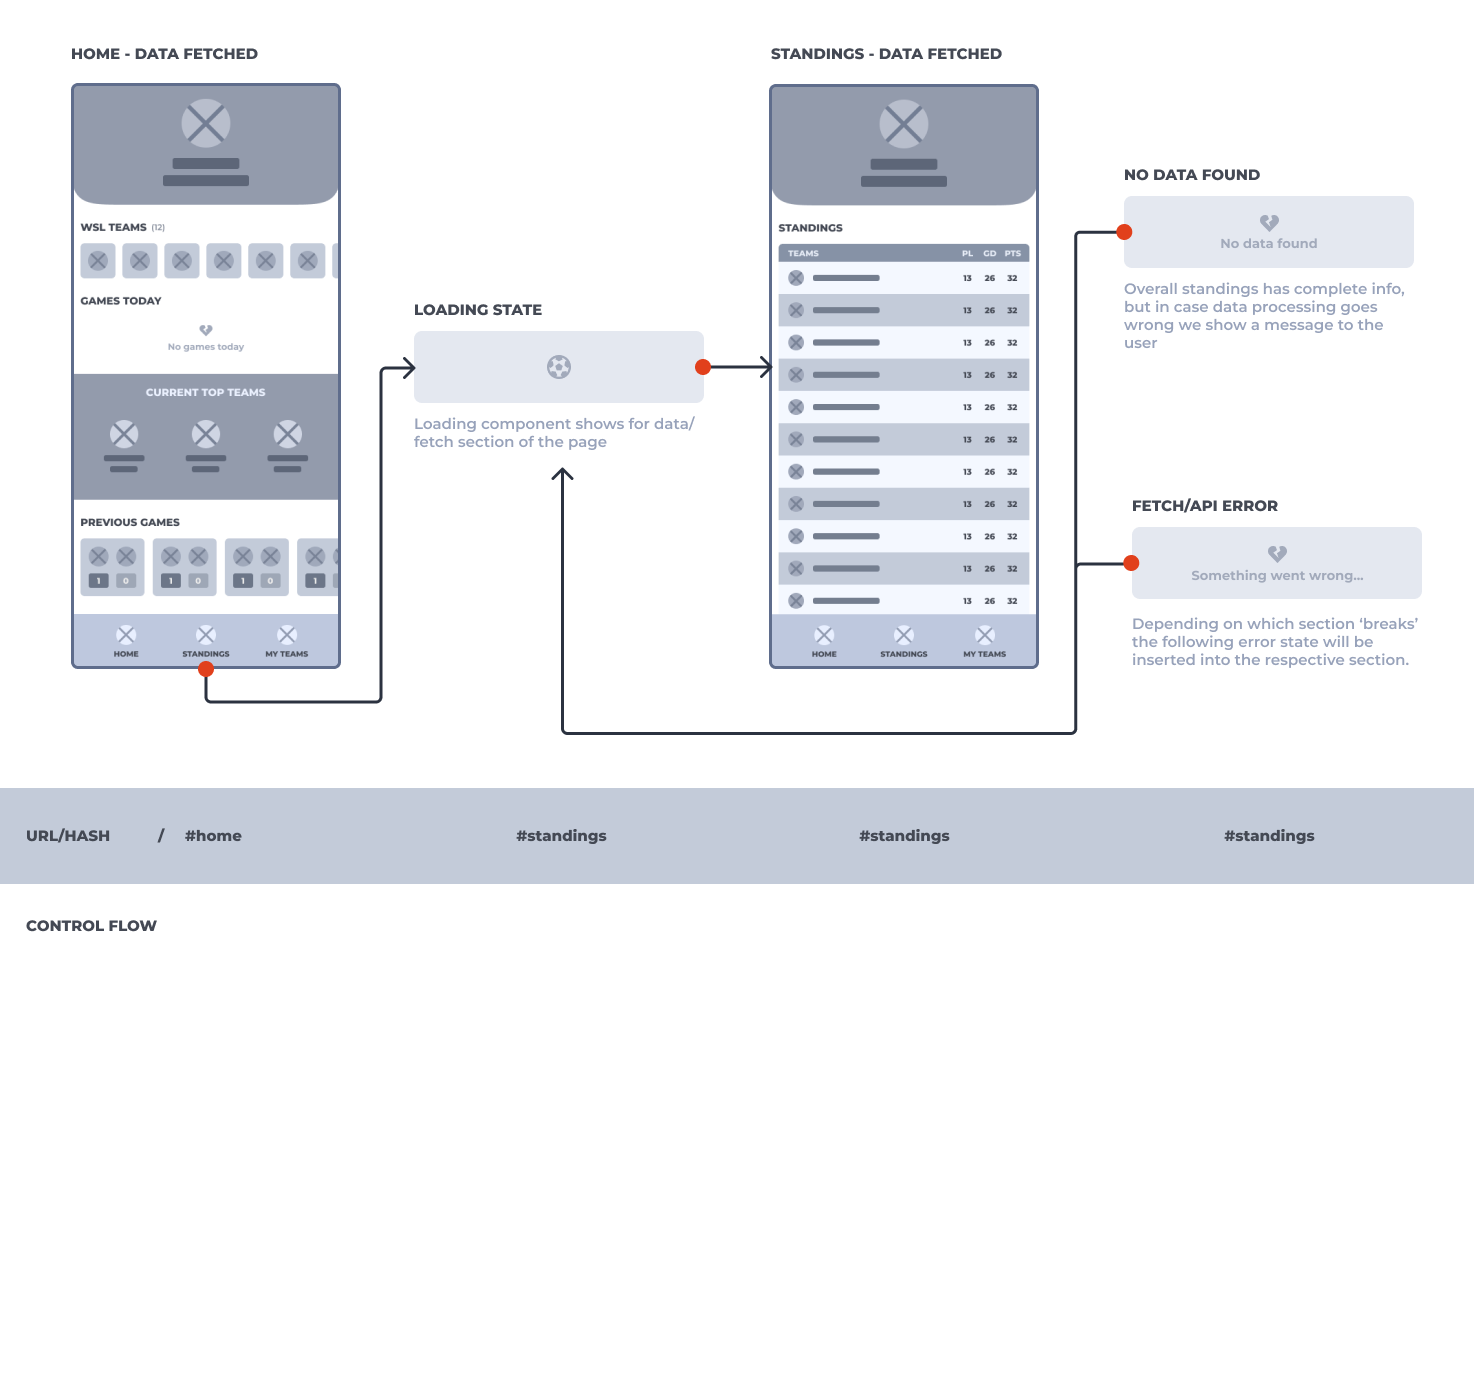
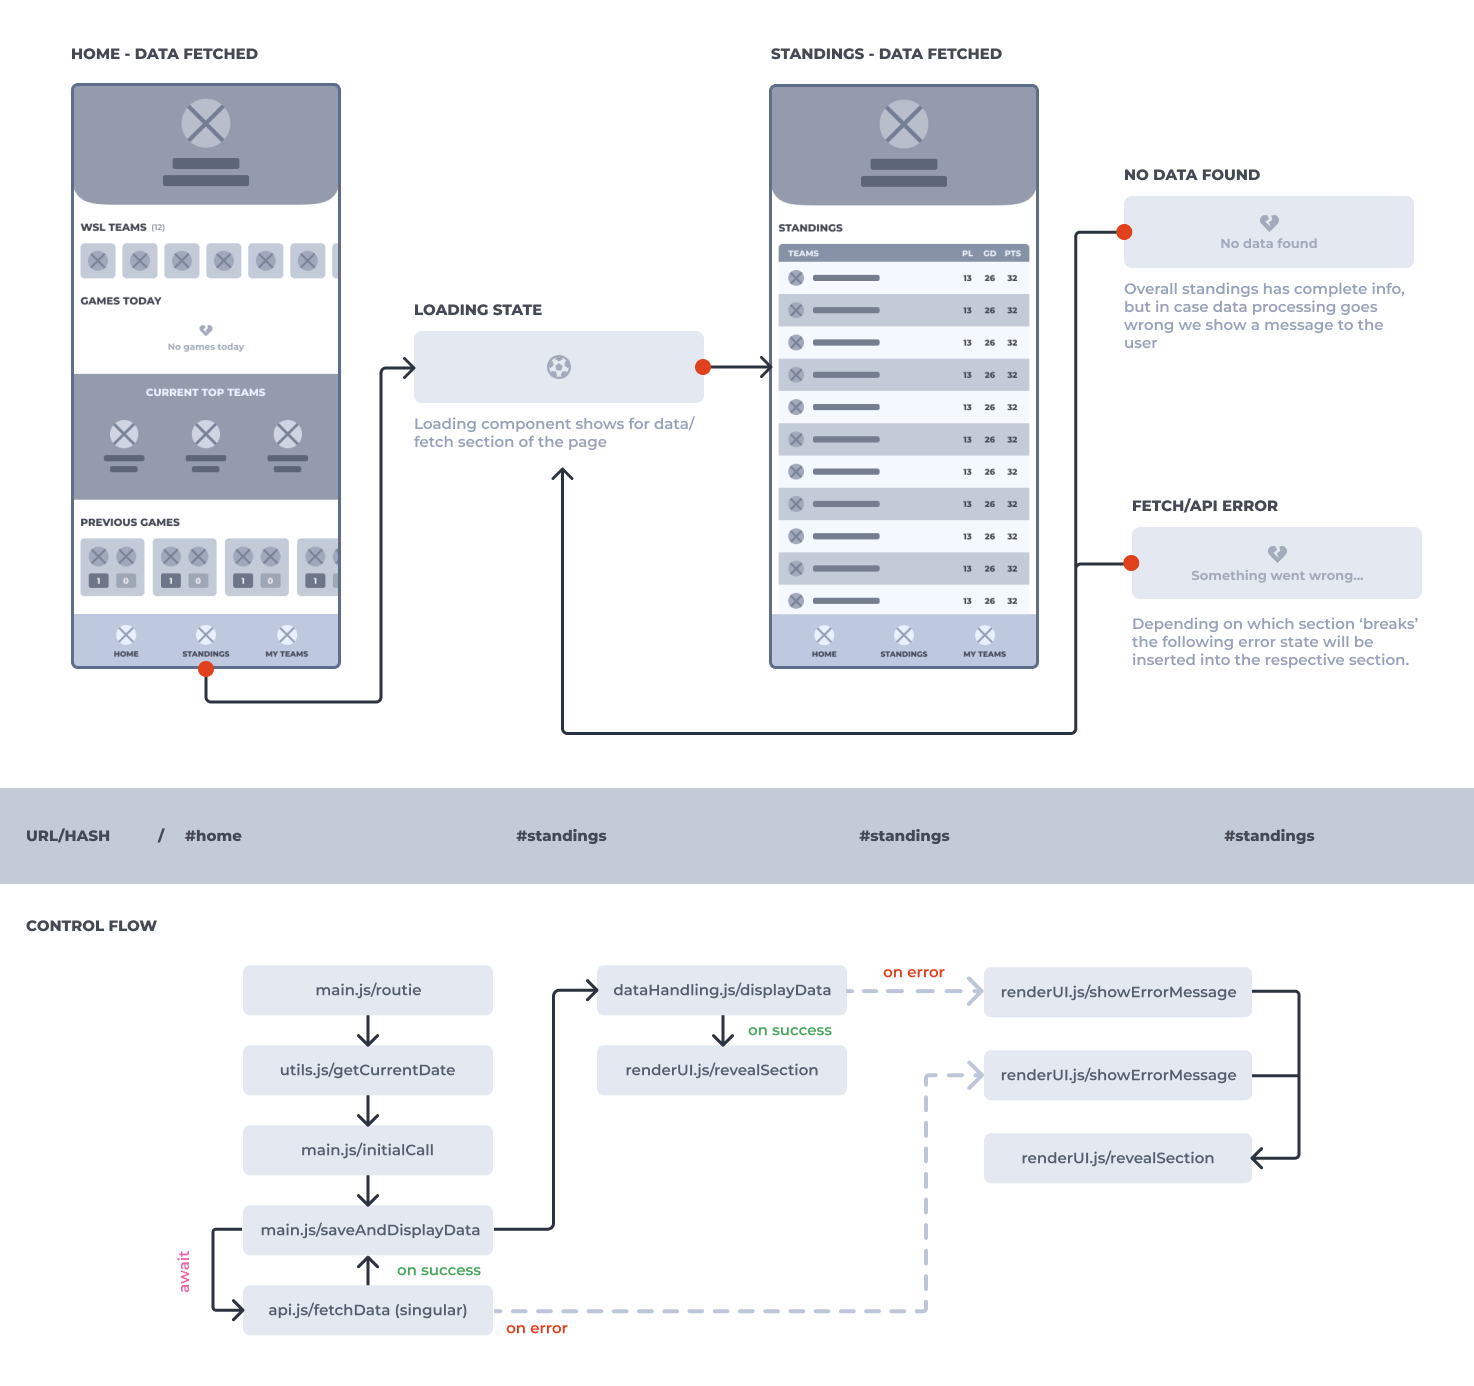
docs and style update

Changed region(s): [[0.1248, 0.6825, 0.3745, 0.9618], [0.6554, 0.6825, 0.905, 0.8687], [0.3745, 0.6825, 0.5929, 0.8066]]

diff --git a/app/styles/style.css b/app/styles/style.css
@@ -254,7 +254,9 @@ nav {
     box-shadow: 0 -2px rgba(0 0 0 / 5%);
 
     display: grid;
-    background-color: #FFF
+    background-color: #FFF;
+
+    z-index:400;
 }
 
     .menu {

diff --git a/app/docs/productdoc.md b/app/docs/productdoc.md
@@ -1,8 +1,8 @@
-# WSLH - Product documentation
+# :notebook_with_decorative_cover: WSLH - Product documentation
 
 For the course "Web App From Scratch" everyone was tasked to design and build a Single Page web App (SPA) based on a user story. The teachers gave us about three weeks for this assignment. The catch is that we had to retrieve data from an external API, manipulate and display said data, but only by using vanilla HTML, CSS and Javascript.
 
-## User Story
+## :page_facing_up: User Story
 
 As you might already be aware, I developed a football application to keep you up-to-date with your favorite teams in the FA Women's Super League. I have enjoyed football for as long as I can remember, I was practically raised in a Galatasaray household where we watched games with the family every weekend. To no one's surprised, I ended up playing football myself as well, however I never actually joined a team. I played on the streets with my friends and occasionaly went to a local club to use their pitches.
 
@@ -14,7 +14,7 @@ This year I wanted to *really* get into women's football. I quickly learned how 
 
 As you can read in the user story I decided to focus on the FA Women's Super League (WSL), which is the female equivalant of the English Premier League. The WSL is one of the more popular women's football leagues out there. Women's football is popular in the United states, however due to timezone differrences my desire to keep up with their leagues is non existent. The WSL and Liga F are currently the only leagues (for me) that are most accessible. I personally find Liga F to not interest me as much as the WSL; FC Barcelona pretty much dominates Liga F, meaning they win all games and are always #1 on the standings. The WSL appears to be more diverse when it comes to teams (performance wise, at least to me), and overall their games get broadcasted, which is why I chose to focus on WSL for now.
 
-## Choosing an API
+## :globe_with_meridians: Choosing an API
 
 Before I picked this user story I browsed the web for free REST APIs with live football data. Not a lot of options for us football and coding enjoyers out there... Most of the APIs were amazing, don't get me wrong, but the issue was that they would either require you to sign up for a payment plan in order to receive a key, or they would only allow a certain amount of API calls per month.  
 
@@ -22,14 +22,63 @@ After scrolling through Google for a while I ended up finding a rather charming 
 
 It offers several free API endpoints, so I experimented with those first and found they suited my needs. As I kept on developing, I wanted more features, so I ended up subscribing to their Patreon for €5,50 in order to receive a key (cheap and worth it! especially in comparison to other APIs).
 
-## Initial interface
+## :art: Initial interface design
 
-Once I knew creating this app with TheSportsDB would be possible, I had to figure out what the app was going to look like visually. I drew up a few sketches; I knew the core of the app was displaying relevant data to the user, so I first and foremost needed a landing page, standings overview and team details.
+Once I knew creating this app with TheSportsDB would be possible, I had to figure out what the app was going to look like visually. I drew up a few sketches; I knew the core of the app was displaying relevant data to the user, so I first and foremost needed a landing page, standings overview and team details. In the sketches and wireflows below you can see how I added 'Teams' or 'My teams' to the bottom navigation, this is because I want to eventually add a feature which allows users to save their favorite teams. But for now, this is marked as a 'nice-to-have' feature.
 
-<!-- TOOD: image of sketches -->
+![WSLH - Sketches](./assets/WSLH-sketches.jpg)
 
 After finishing these sketches I created a wireflow, to serve as a visual representation of how users would be interacting with the app and how the app would respond to certain interactions
 
-![WSLH Wireflow](./assets/WSLH-wireflow.png)
+![WSLH - Wireflow](./assets/WSLH-wireflow.png)
 
-Since the assignment was to create a Single Page web App, I quickly came to the conclusion that every page would be a `<article>` to create a clear structure in HTML.
+Since the assignment was to create a Single Page web App, I quickly came to the conclusion that every page would be a `<article>`, since each page could be a standalone 'article' so to speak. And this would also help me to create a clear structure in HTML. Within each article I figured the best thing to do would be to create sections of data. Meaning I could give each section of data their very own states, like: loading or empty/no data states. By doing so, I could also incorporate the error messages into those sections the same way.
+
+## :zap: Activity Diagram
+
+Before I created the WSLH activity diagram, I had been programming for several days. Most of the functionalities work (besides setting favorite teams) and all my JS functions had been split up into modules.
+
+```js
+"../scripts/main.js" // starting point
+"../scripts/api.js" // fetching data
+"../scripts/dataHandling.js" // manipulating data and appending in HTML
+"../scripts/renderUI.js" // displaying/hiding data
+"../scripts/storage.js" // everything related to local storage
+"../scripts/utils.js" // 'other' functions such as getCurrentDate()
+```
+
+An activity diagram shows the flow of activities that occur within a system or application. It is kind of like a flowchart that shows all the steps that need to be taken (within the code) in order to complete a task.
+
+### Activity Diagram - Home
+
+![WSLH - Home page activity diagram](./assets/WSLH-home-activity_diagram.png)
+
+As seen in the image above, the very first state users will see is the loading state. This state is the very first state by default. Only when a section has retrieved data will it change into something else, which of course depends on what the status is of the fetched data will be: empty or fetch/api error.
+
+In the control flow it shows that each activity starts in `main.js/routie`. Routie controls what needs to be done on each page. Because we are on the 'Home' page, the first thing the app does is check if the user needs new 'fresh' data or not. It does so by comparing the current date with the last updated date set in local storage.
+
+The result of this check gets passed onto `main.js/saveAndDisplayData`. It performs one or multiple fetches, and waits for the data. After receiving the data successfully it gets saved into local storage and passed onto `dataHandling.js/displayData` and then `renderUI.js/revealSection`. 
+
+If an error were to accur in `api.js/fetchData` or if the data was empty, both call `renderUI.js/showErrorMessage` which inserts an error message into HTML. Afterwars `renderUI/revealSection` gets called to display the message.
+
+### Activity Diagram - League standings
+
+![WSLH - League standings activity diagram](./assets/WSLH-league_standings-activity_diagram.png)
+
+The activity diagram for viewing league standings is pretty much the same as viewing the home page, except instead of potentially performing multiple API, it only has to fetch the current standings, meaning it's a singular API call.
+
+### Activity Diagram - Team details
+
+![WSLH - Team details activity diagram](./assets/WSLH-team_details-activity_diagram.png)
+
+The activity diagram for viewing team details is slightly different. Like the other pages, it starts with `main.js/routie`. Data from team details is the only thing that does not get saved in local storage. Therefore we know this page always needs fresh data, so it goes straight to `api.js/getTeamDetails(:id)`. 
+
+Within this function, it fetches all the WSL league teams in order to be able to dislay 'next up' and 'previous' games. This data then gets passed along to the `displayData` function. Everything afterwards is the same as the other activity diagrams.
+
+## :stars: Future ambitions
+
+I guess you could say I have gotten quite attached to this little project over the past few weeks. I enjoyed every second of coding and designing. I personally see potential in creating an actual app like this that only focuses on women's football.
+
+What I've created now is good, but I feel like it could be much better. Better UI design and better data manipulation/handling (especially since everything is done in vanilla JS). I would like to explore this project more design wise, but also want to make an actual PWA with Node.JS and perhaps add a MySQL database.
+
+I also hope to add more features to the WSLH such as selecting your favorite teams and getting a different home/dashboard based on your selection. This way the app could actually be a personal hub.

diff --git a/README.md b/README.md
@@ -16,15 +16,16 @@ WSL Personal Hub will be offering the following features:
 | Features :nail_care:        | Status :rocket:    |
 |-----------------------------|---------------------|
 | View current league standings    | :white_check_mark: |
-| Team overviews    | :hourglass: |
+| Team details    | :white_check_mark: |
 | Today's games    | :white_check_mark: |
 | Previous ten games    | :white_check_mark: |
+| Favorite teams   | :hourglass: |
 
-<!-- ---
+---
 
 ## :memo: Documentation
 
-Learn more about the WSL Personal Hub and dive deeper into this project by reading the process documentation in our [wiki](https://github.com/noyamirai/projectteamcreator/wiki). -->
+Learn more about the WSL Personal Hub and dive deeper into this project by reading the [process documentation](./app/docs/productdoc.md).
 
 ## :package: Resources
 Our application uses the following recourses:
